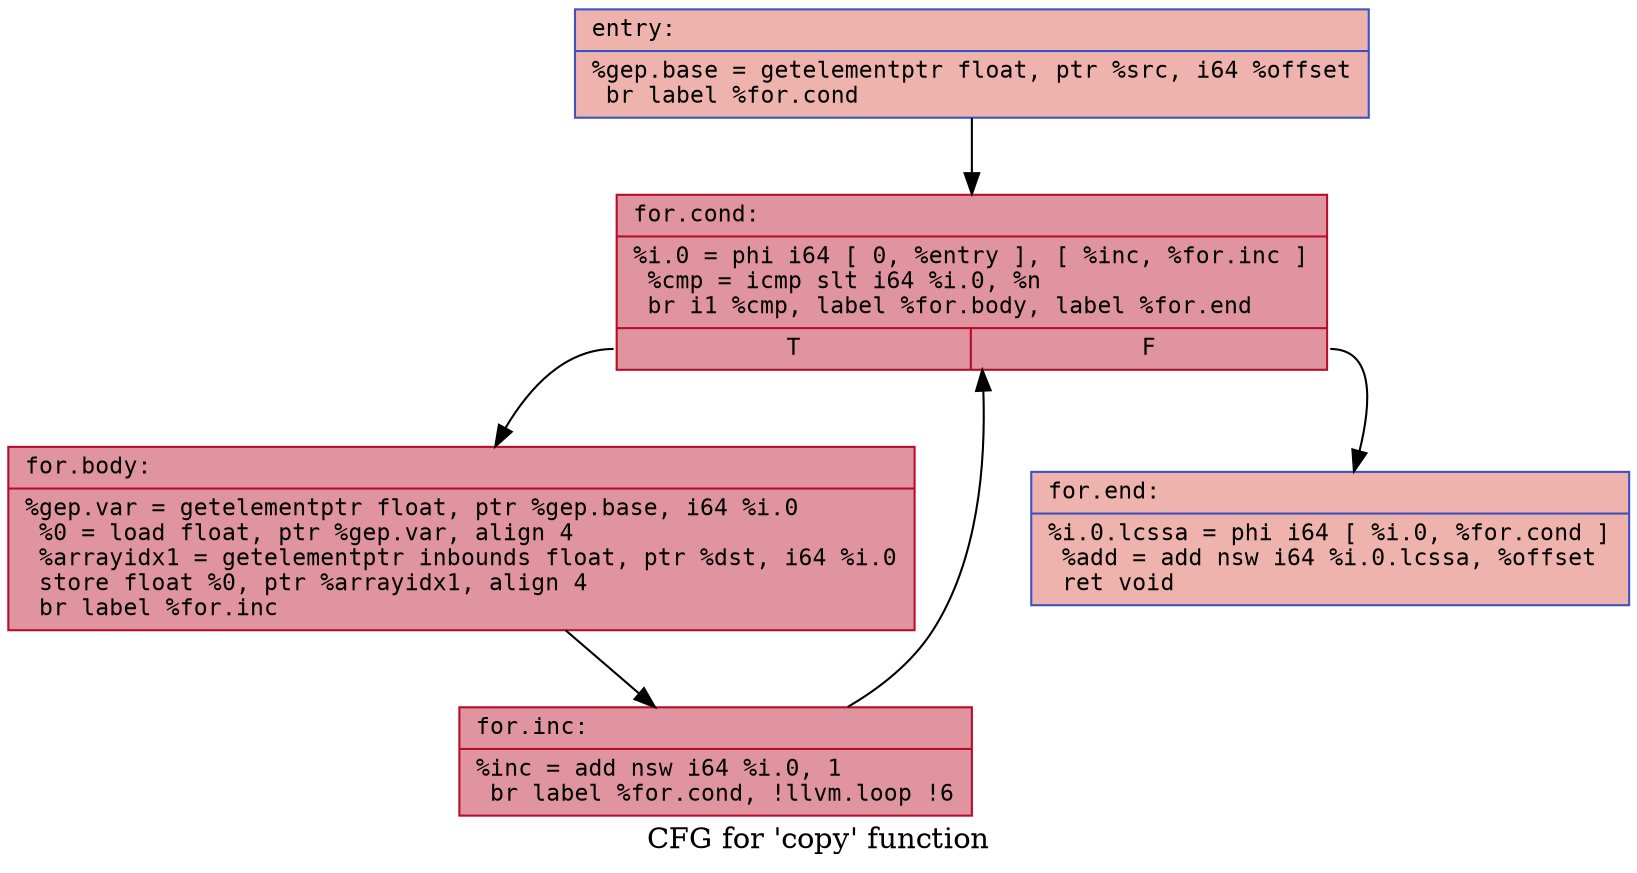
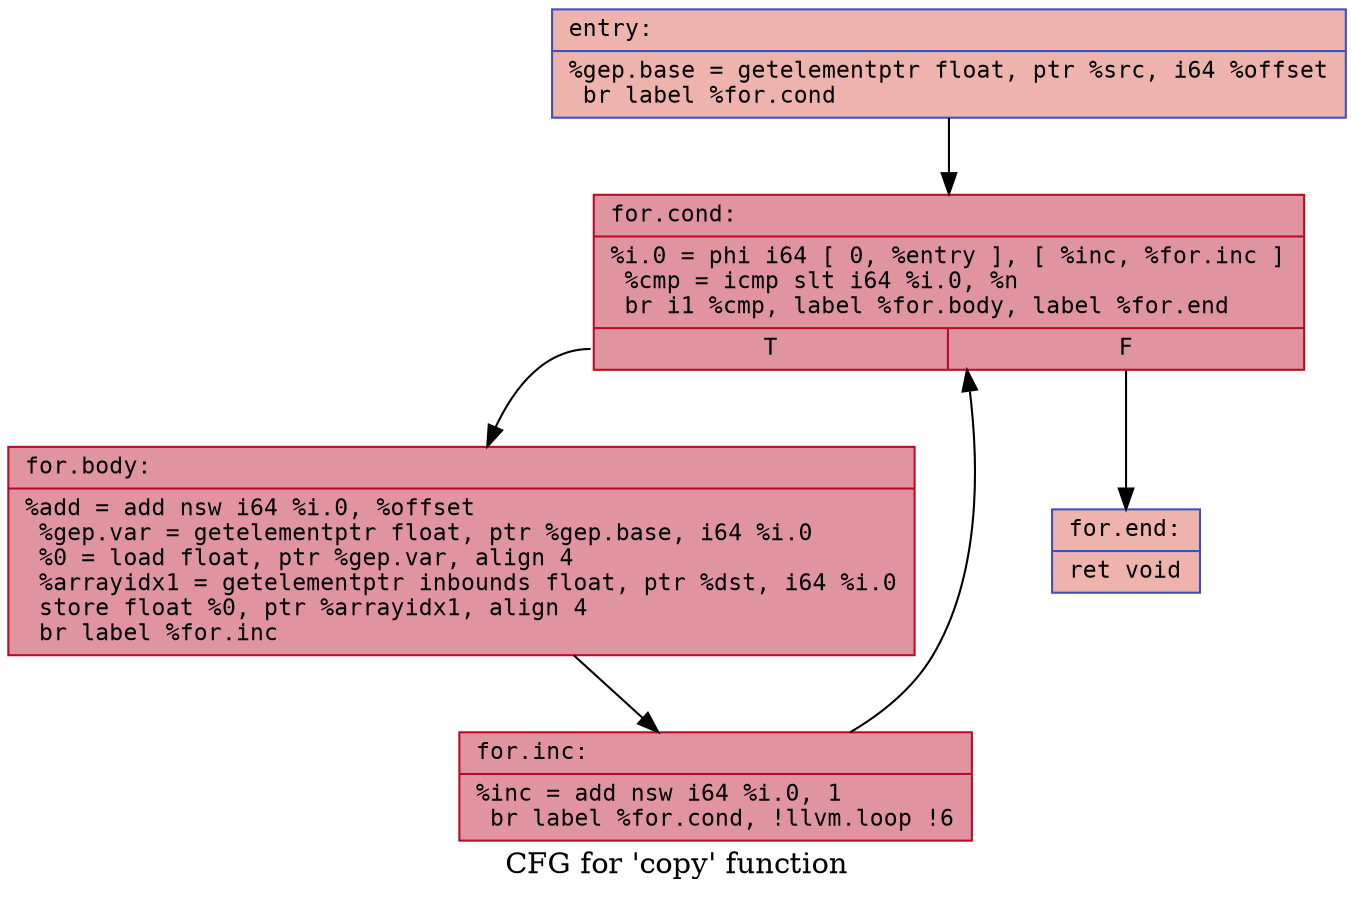
feat(licm): repeat while any transformation fires - hoisting can expose new invariants each pass

Changed region(s): [[0.0, 0.1856, 1.0, 0.7732], [0.3412, 0.0, 1.0, 0.1546], [0.2792, 0.7732, 0.7445, 0.9897]]

diff --git a/licm/LICM.cpp b/licm/LICM.cpp
@@ -145,13 +145,11 @@ static bool tryPromoteMemory(Loop &L, AAResults &AA, DominatorTree &DT, BasicBlo
     SmallDenseMap<Value*, SmallVector<StoreInst*, 2>> StoresByPtr;
 
     for (LoadInst *LI : LoopLoads)
-        if (!LI->isVolatile() && !LI->isAtomic() &&
-            isLoopInvariant(LI->getPointerOperand(), L))
+        if (!LI->isVolatile() && !LI->isAtomic() && isLoopInvariant(LI->getPointerOperand(), L))
             LoadsByPtr[LI->getPointerOperand()].push_back(LI);
 
     for (StoreInst *SI : LoopStores)
-        if (!SI->isVolatile() && !SI->isAtomic() &&
-            isLoopInvariant(SI->getPointerOperand(), L))
+        if (!SI->isVolatile() && !SI->isAtomic() && isLoopInvariant(SI->getPointerOperand(), L))
             StoresByPtr[SI->getPointerOperand()].push_back(SI);
 
     bool Changed = false;
@@ -413,6 +411,7 @@ static bool trySink(Loop &L, DominatorTree &DT) {
             if (I.isTerminator() || isa<PHINode>(I)) continue;
             if (I.mayReadOrWriteMemory()) continue; // each store/load is a side effect (sinking skips n-1 of them)
 
+            if (I.use_empty()) continue; // no users to sink toward, DCE will handle it
             bool AllUsersOutside = true;
             for (User *U : I.users()) {
                 auto *UI = dyn_cast<Instruction>(U);
@@ -450,6 +449,7 @@ static bool sinkSEUnlocked(Loop &L, ScalarEvolution &SE, DominatorTree &DT) {
             if (I.isTerminator() || isa<PHINode>(I)) continue;
             if (I.mayReadOrWriteMemory()) continue;
 
+            if (I.use_empty()) continue;
             bool AllUsersOutside = true;
             for (User *U : I.users()) {
                 auto *UI = dyn_cast<Instruction>(U);
@@ -479,42 +479,48 @@ struct LICMPass : PassInfoMixin<LICMPass> {
             return PreservedAnalyses::all();
         }
 
-        SmallVector<LoadInst*, 8> LoopLoads;
-        SmallVector<StoreInst*, 8> LoopStores;
-        SmallVector<CallBase*, 8> LoopCalls;
-        collectLoopMemoryOps(L, LoopLoads, LoopStores, LoopCalls);
-
         bool Changed = false;
+        bool Iter;
 
-        for (BasicBlock *BB : L.getBlocks()) {
-            SmallVector<Instruction*, 8> ToHoist;
-            for (Instruction &I : *BB) {
-                if (auto *LI = dyn_cast<LoadInst>(&I)) {
-                    if (canHoistLoad(*LI, L, AR.AA, LoopStores, LoopCalls))
+        // hoisting X can make Y invariant, next iteration hoists Y
+        do {
+            Iter = false;
+
+            // recollect each iteration (hoisted stores/calls change AA results)
+            SmallVector<LoadInst*, 8>  LoopLoads;
+            SmallVector<StoreInst*, 8> LoopStores;
+            SmallVector<CallBase*, 8>  LoopCalls;
+            collectLoopMemoryOps(L, LoopLoads, LoopStores, LoopCalls);
+
+            for (BasicBlock *BB : L.getBlocks()) {
+                SmallVector<Instruction*, 8> ToHoist;
+                for (Instruction &I : *BB) {
+                    if (auto *LI = dyn_cast<LoadInst>(&I)) {
+                        if (canHoistLoad(*LI, L, AR.AA, LoopStores, LoopCalls))
+                            ToHoist.push_back(&I);
+                    } else if (auto *CB = dyn_cast<CallBase>(&I)) {
+                        if (canHoistCall(*CB, L, AR.AA, LoopStores, LoopCalls))
+                            ToHoist.push_back(&I);
+                    } else if (isSafeToHoist(I, L, AR.DT)) {
                         ToHoist.push_back(&I);
-                } else if (auto *CB = dyn_cast<CallBase>(&I)) {
-                    if (canHoistCall(*CB, L, AR.AA, LoopStores, LoopCalls))
-                        ToHoist.push_back(&I);
-                } else if (isSafeToHoist(I, L, AR.DT)) {
-                    ToHoist.push_back(&I);
+                    }
+                }
+                for (Instruction *I : ToHoist) {
+                    hoistInstruction(*I, Preheader);
+                    Iter = true;
                 }
             }
 
-            for (Instruction *I : ToHoist) {
-                hoistInstruction(*I, Preheader);
-                Changed = true;
-            }
-        }
+            Iter |= tryPromoteMemory(L, AR.AA, AR.DT, Preheader, LoopLoads, LoopStores, LoopCalls);
+            Iter |= tryReassociateArith(L, Preheader);
+            Iter |= tryReassociateGEP(L, Preheader);
+            Iter |= tryHoistReciprocal(L, Preheader);
+            Iter |= trySink(L, AR.DT);
+            Iter |= hoistSEUnlocked(L, AR.SE, AR.DT, Preheader);
+            Iter |= sinkSEUnlocked(L, AR.SE, AR.DT);
 
-        // promotion first - converts load/store pairs to SSA registers, exposing new invariant
-        // values that reassociation and reciprocal can then pick up
-        Changed |= tryPromoteMemory(L, AR.AA, AR.DT, Preheader, LoopLoads, LoopStores, LoopCalls);
-        Changed |= tryReassociateArith(L, Preheader);
-        Changed |= tryReassociateGEP(L, Preheader);
-        Changed |= tryHoistReciprocal(L, Preheader);
-        Changed |= trySink(L, AR.DT);
-        Changed |= hoistSEUnlocked(L, AR.SE, AR.DT, Preheader);
-        Changed |= sinkSEUnlocked(L, AR.SE, AR.DT);
+            Changed |= Iter;
+        } while (Iter);
 
         // fix LCSSA after all transformations (exit PHIs mark where loop-internal values leave the loop)
         formLCSSARecursively(L, AR.DT, &AR.LI, &AR.SE);

diff --git a/examples/licm/EXAMPLES.md b/examples/licm/EXAMPLES.md
@@ -1,0 +1,240 @@
+# LICM Pass — Examples
+
+Each example targets one feature. Before = source as written. After = what the pass produces, expressed in C.
+
+---
+
+## 1. Core Hoisting (`hoist_invariant`)
+
+Invariant arithmetic moved before the loop — computed once instead of n times.
+
+**Before**
+```c
+void transform(int *arr, int n, int a, int b, int c) {
+    for (int i = 0; i < n; i++) {
+        arr[i] = (a * b + c) * i;   // a*b and a*b+c are invariant — recomputed every iteration
+    }
+}
+```
+
+**After**
+```c
+void transform(int *arr, int n, int a, int b, int c) {
+    int inv = a * b + c;            // hoisted — computed once
+    for (int i = 0; i < n; i++) {
+        arr[i] = inv * i;
+    }
+}
+```
+
+---
+
+## 2. Load Hoisting (`hoist_load`)
+
+A load through a loop-invariant pointer with no aliasing stores is hoisted — one memory read instead of n.
+
+**Before**
+```c
+void scale(int * __restrict__ arr, int n, const int * __restrict__ factor) {
+    for (int i = 0; i < n; i++) {
+        arr[i] *= *factor;          // *factor read from memory every iteration
+    }
+}
+```
+
+**After**
+```c
+void scale(int * __restrict__ arr, int n, const int * __restrict__ factor) {
+    int f = *factor;                // hoisted — one load before the loop
+    for (int i = 0; i < n; i++) {
+        arr[i] *= f;
+    }
+}
+```
+
+---
+
+## 3. Memory Promotion (`hoist_promotion`)
+
+A load/store pair to the same address is replaced by a register — one load before, one store after, pure register arithmetic inside.
+
+**Before**
+```c
+void accumulate(int * __restrict__ arr, int n, int * __restrict__ total) {
+    for (int i = 0; i < n; i++) {
+        *total += arr[i];           // load and store *total every iteration
+    }
+}
+```
+
+**After**
+```c
+void accumulate(int * __restrict__ arr, int n, int * __restrict__ total) {
+    int reg = *total;               // load once before loop
+    for (int i = 0; i < n; i++) {
+        reg += arr[i];              // register arithmetic — no memory access
+    }
+    *total = reg;                   // store once after loop
+}
+```
+
+---
+
+## 4. Pure Call Hoisting (`hoist_call`)
+
+Calls declared `const` (readnone) with loop-invariant arguments are hoisted — called once instead of n times.
+
+**Before**
+```c
+double compute(double x) __attribute__((const));
+double transform(double y) __attribute__((const));
+
+void process(double *arr, int n, double x, double y) {
+    for (int i = 0; i < n; i++) {
+        arr[i] = arr[i] * compute(x) + transform(y);   // two calls per iteration
+    }
+}
+```
+
+**After**
+```c
+void process(double *arr, int n, double x, double y) {
+    double cx = compute(x);         // hoisted — called once
+    double ty = transform(y);       // hoisted — called once
+    for (int i = 0; i < n; i++) {
+        arr[i] = arr[i] * cx + ty;
+    }
+}
+```
+
+---
+
+## 5. Instruction Sinking (`sink`)
+
+An instruction whose result is only used after the loop is moved to the exit block — executed once instead of n times.
+
+> Note: C → IR conversion (mem2reg) introduces PHI nodes that block sinking demos. The concept is shown below in C terms; in practice this is demonstrated at the IR level.
+
+**Before**
+```c
+int process(int *arr, int n) {
+    int last;
+    for (int i = 0; i < n; i++) {
+        last = arr[i] * 2;          // only the final value is used — computed n times for nothing
+    }
+    return last;
+}
+```
+
+**After**
+```c
+int process(int *arr, int n) {
+    int last_val;
+    for (int i = 0; i < n; i++) {
+        last_val = arr[i];          // load stays in loop
+    }
+    return last_val * 2;            // mul sunk to exit — computed once
+}
+```
+
+---
+
+## 6. Reciprocal Division Hoisting (`hoist_reciprocal`)
+
+`fdiv x, invariant` → compute `1.0/c` once in the preheader → replace with `fmul x, recip`. `fmul` throughput is up to 40x higher than `fdiv`.
+
+**Before**
+```c
+void normalize(float * __restrict__ arr, int n, float scale) {
+    for (int i = 0; i < n; i++) {
+        arr[i] = arr[i] / scale;    // n divisions
+    }
+}
+```
+
+**After**
+```c
+void normalize(float * __restrict__ arr, int n, float scale) {
+    float recip = 1.0f / scale;     // one division hoisted
+    for (int i = 0; i < n; i++) {
+        arr[i] = arr[i] * recip;    // n multiplications
+    }
+}
+```
+
+---
+
+## 7. Arithmetic Reassociation (`hoist_reassoc_arith`)
+
+Rewrites `(varying + inv1) + inv2` → `varying + (inv1 + inv2)` to expose the invariant sub-expression, then hoists it. Regular hoisting misses this because the outer add appears non-invariant.
+
+**Before**
+```c
+void process(float *arr, int n, float offset, float base) {
+    for (int i = 0; i < n; i++) {
+        arr[i] = (arr[i] + offset) + base;   // two fadds per iteration
+    }
+}
+```
+
+**After**
+```c
+void process(float *arr, int n, float offset, float base) {
+    float reassoc = offset + base;            // one fadd hoisted
+    for (int i = 0; i < n; i++) {
+        arr[i] = arr[i] + reassoc;            // one fadd per iteration
+    }
+}
+```
+
+---
+
+## 8. GEP Reassociation (`hoist_reassoc_gep`)
+
+Splits `getelementptr base, (i + offset)` into a preheader GEP that advances the base by the invariant offset, and a loop GEP that steps only by `i`. One fewer add per iteration.
+
+**Before**
+```c
+void copy(float * __restrict__ dst, float * __restrict__ src, long n, long offset) {
+    for (long i = 0; i < n; i++) {
+        dst[i] = src[i + offset];   // i + offset computed every iteration
+    }
+}
+```
+
+**After**
+```c
+void copy(float * __restrict__ dst, float * __restrict__ src, long n, long offset) {
+    float *base = src + offset;     // GEP advanced by offset once in preheader
+    for (long i = 0; i < n; i++) {
+        dst[i] = base[i];           // only the varying index remains
+    }
+}
+```
+
+---
+
+## 9. SE-Unlocked Hoisting (`hoist_se`)
+
+`isSafeToSpeculativelyExecute` rejects integer division (potential div-by-zero). Regular hoisting skips it. The for-loop body never dominates the exit (zero-trip path `header → exit` bypasses it), so the dominator fallback also fails. SE proves the loop runs exactly 4 times → body executes at least once → safe to hoist.
+
+**Before**
+```c
+void scale(int * __restrict__ out, const int * __restrict__ in,
+           int a, int b) {
+    for (int i = 0; i < 4; i++) {
+        out[i] = in[i] * (a / b);   // a/b invariant but sdiv unsafe — 4 divisions
+    }
+}
+```
+
+**After**
+```c
+void scale(int * __restrict__ out, const int * __restrict__ in,
+           int a, int b) {
+    int q = a / b;                  // SE-unlocked hoist — one division before the loop
+    for (int i = 0; i < 4; i++) {
+        out[i] = in[i] * q;
+    }
+}
+```
